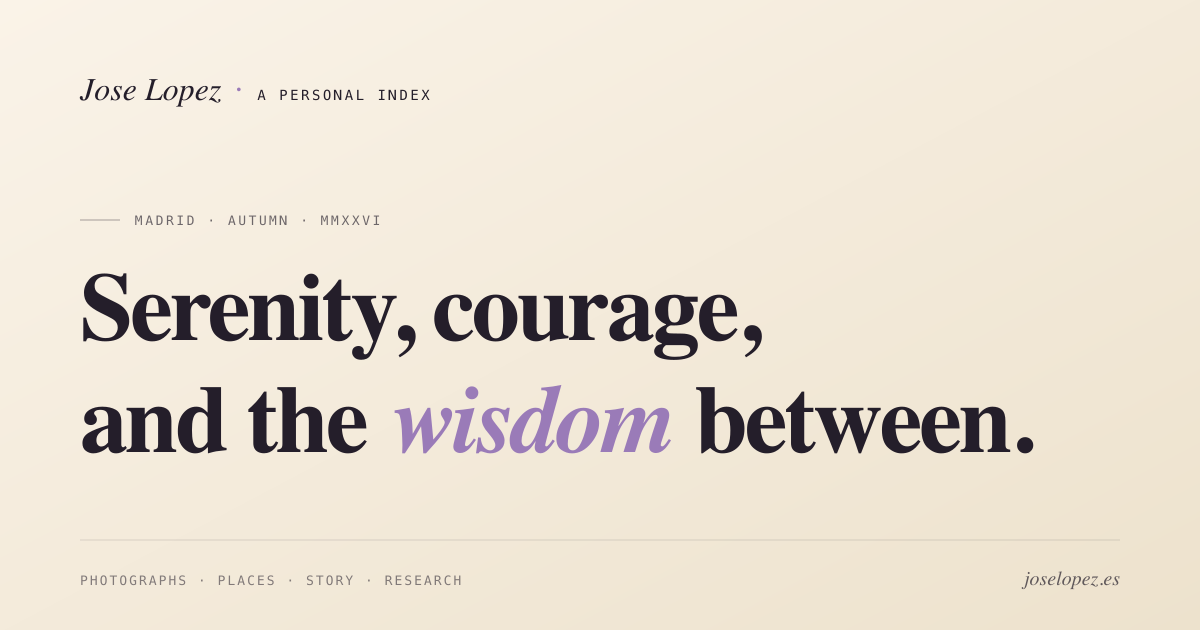
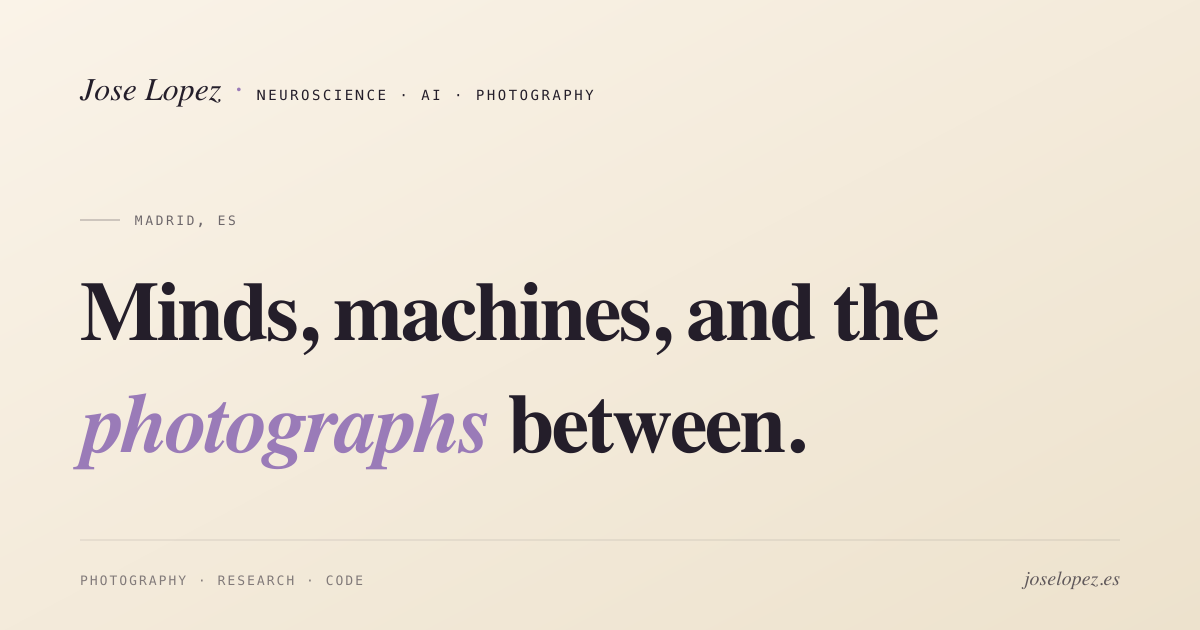
Redesign: personal index to professional science x photography profile
- Hero: 'Minds, machines, and the photographs between.' + fact row (bio from real sources)
- Places and Story sections removed (less personal); Photography/Research/Works/Contact renumbered 01-04
- Nav subtitle 'science · photography'; Research retitled 'Mind, brain, and machine.'
- Contact: 'Get in touch.' professional copy; footer simplified
- Base meta, RSS description, OG card recopied to match

diff --git a/src/pages/rss.xml.ts b/src/pages/rss.xml.ts
@@ -16,7 +16,7 @@ export async function GET(context: APIContext) {
   return rss({
     title: 'Jose Lopez · Research',
     description:
-      'Photographs, places, half-finished essays, and longer pieces on attention, the mind, and machines that try to think.',
+      'Research notes on minds, brains, and machines that try to think — with sources and open code. Jose Lopez, Madrid.',
     site: context.site!,
     items: ordered.map((entry) => ({
       title: entry.data.title,

diff --git a/src/styles/global.css b/src/styles/global.css
@@ -115,15 +115,6 @@
   transform-origin: left;
 }
 
-/* Place row hover */
-.fn-place-row {
-  transition: all 0.4s cubic-bezier(0.2, 0.8, 0.2, 1);
-  border-bottom: 1px solid rgb(36 30 42 / 0.13);
-}
-.fn-place-row:hover {
-  padding-left: 20px;
-}
-
 /* Research row hover */
 .fn-research-row {
   transition: all 0.4s cubic-bezier(0.2, 0.8, 0.2, 1);
